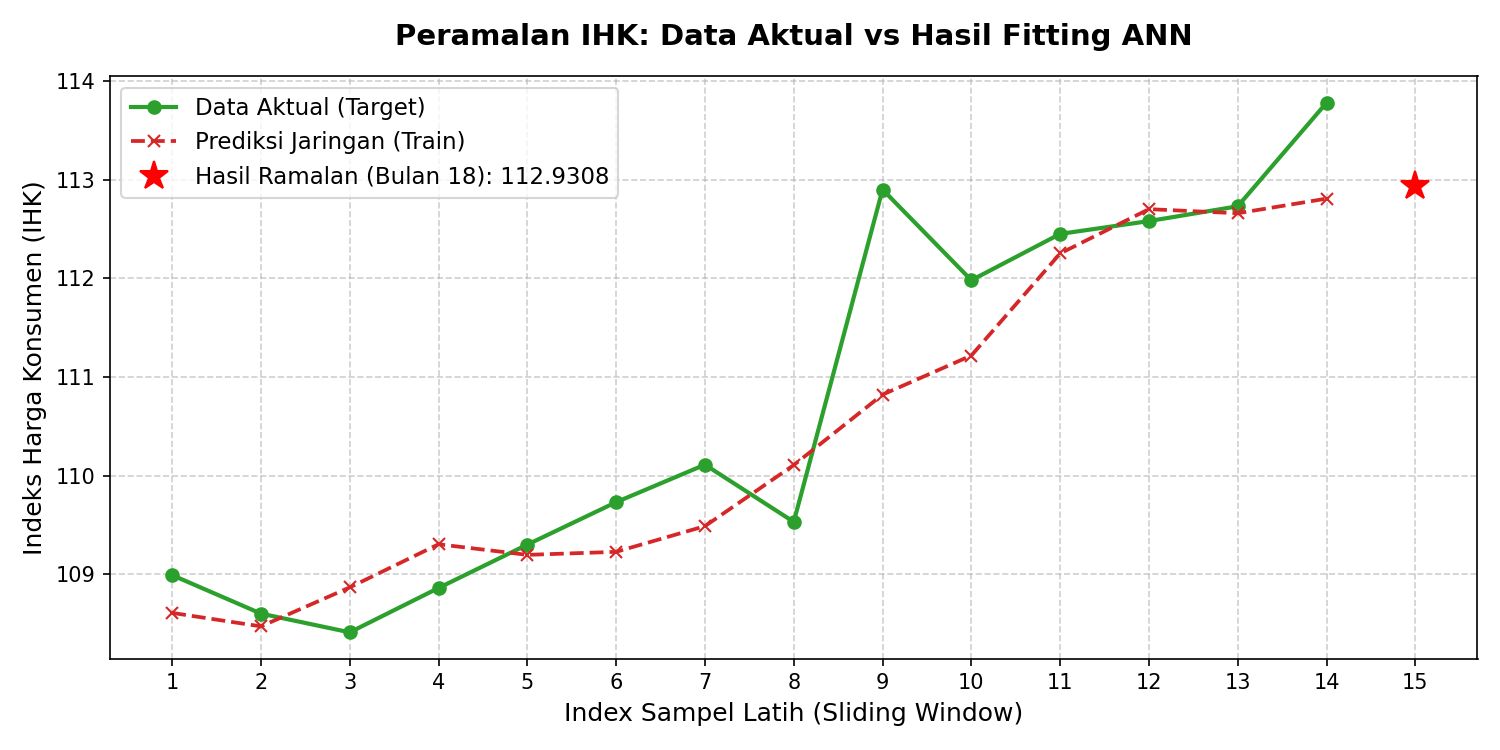
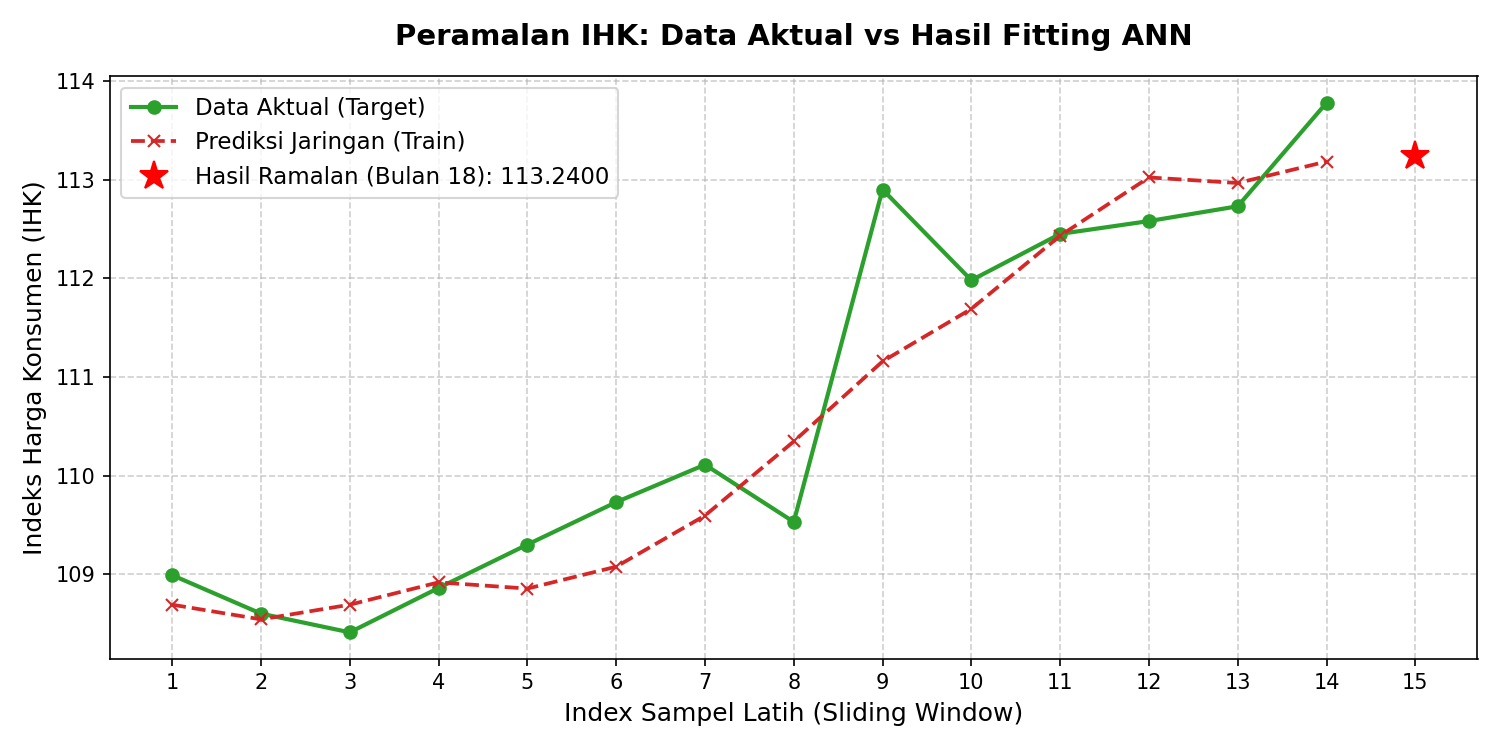
update result.md with tables

diff --git a/generate_results.py b/generate_results.py
@@ -86,6 +86,21 @@ async def main():
             plt.savefig("ihk_forecast_chart.png", dpi=150)
             plt.close()
             
+            # Generate data table
+            months_labels = [
+                "Jan 2025", "Feb 2025", "Mar 2025", "Apr 2025", "Mei 2025", "Jun 2025",
+                "Jul 2025", "Ags 2025", "Sep 2025", "Okt 2025", "Nov 2025", "Des 2025",
+                "Jan 2026", "Feb 2026", "Mar 2026", "Apr 2026", "Mei 2026"
+            ]
+            inf_series = inf_data["historical_series"]
+            ihk_series = ihk_data["historical_series"]
+            
+            table_rows = ""
+            for i in range(17):
+                status = "Historis (YoY)" if i < 12 else "Historis (Berjalan)"
+                table_rows += f"| {i+1} | {months_labels[i]} | `{inf_series[i]:.4f}%` | `{ihk_series[i]:.4f}` | {status} |\n"
+            table_rows += f"| 18 | **Jun 2026** | **`{inf_forecast:.4f}%`** | **`{ihk_forecast:.4f}`** | **Hasil Ramalan (ANN)** |\n"
+
             # Write result.md
             print("Menulis dokumen hasil ke result.md...")
             md_content = f"""# Hasil Pelatihan dan Peramalan Artificial Neural Network (ANN)
@@ -103,7 +118,17 @@ Berikut adalah ringkasan hasil pengujian model Jaringan Saraf Tiruan (ANN) yang 
 
 ---
 
-## 2. Grafik Hasil Pelatihan (Loss Function)
+## 2. Tabel Data Input Historis & Hasil Peramalan
+
+Tabel di bawah ini menampilkan 17 data masuk (input historis) yang digunakan untuk melatih model ANN, diikuti oleh hasil peramalan untuk Bulan ke-18 (Juni 2026):
+
+| Bulan Ke- | Periode | Data Masuk: Inflasi | Data Masuk: IHK | Status Data |
+| :---: | :---: | :---: | :---: | :--- |
+{table_rows}
+
+---
+
+## 3. Grafik Hasil Pelatihan (Loss Function)
 
 Grafik di bawah menunjukkan kurva penurunan tingkat error (**Mean Squared Error / MSE**) model Inflasi dan IHK selama 150 epoch pelatihan. Loss yang mengecil mendekati nol menandakan model berhasil belajar secara optimal.
 
@@ -111,7 +136,7 @@ Grafik di bawah menunjukkan kurva penurunan tingkat error (**Mean Squared Error 
 
 ---
 
-## 3. Perbandingan Data Aktual vs Prediksi Model
+## 4. Perbandingan Data Aktual vs Prediksi Model
 
 Grafik di bawah ini membandingkan data aktual historis dengan hasil fitting (prediksi) model ANN saat fase latihan, serta menampilkan proyeksi nilai hasil ramalan untuk bulan ke-18.
 
@@ -123,7 +148,7 @@ Grafik di bawah ini membandingkan data aktual historis dengan hasil fitting (pre
 
 ---
 
-## 4. Hasil Peramalan Kelompok Komoditas Utama
+## 5. Hasil Peramalan Kelompok Komoditas Utama
 
 Berikut adalah estimasi nilai inflasi untuk 11 kelompok komoditas utama di **{res['kota']}** pada bulan ke-18:
 

diff --git a/result.md b/result.md
@@ -8,12 +8,40 @@ Berikut adalah ringkasan hasil pengujian model Jaringan Saraf Tiruan (ANN) yang 
 
 | Variabel | Nilai Ramalan | Nilai Terakhir (Mei 2026) | Trend / Keterangan |
 | :--- | :---: | :---: | :--- |
-| **Inflasi** | `0.3758%` | `0.9300%` | Turun |
-| **IHK** | `112.9308` | `113.7800` | Turun |
+| **Inflasi** | `0.1386%` | `0.9300%` | Turun |
+| **IHK** | `113.2400` | `113.7800` | Turun |
 
 ---
 
-## 2. Grafik Hasil Pelatihan (Loss Function)
+## 2. Tabel Data Input Historis & Hasil Peramalan
+
+Tabel di bawah ini menampilkan 17 data masuk (input historis) yang digunakan untuk melatih model ANN, diikuti oleh hasil peramalan untuk Bulan ke-18 (Juni 2026):
+
+| Bulan Ke- | Periode | Data Masuk: Inflasi | Data Masuk: IHK | Status Data |
+| :---: | :---: | :---: | :---: | :--- |
+| 1 | Jan 2025 | `-0.4700%` | `105.9100` | Historis (YoY) |
+| 2 | Feb 2025 | `-0.4900%` | `105.3900` | Historis (YoY) |
+| 3 | Mar 2025 | `1.5500%` | `107.0200` | Historis (YoY) |
+| 4 | Apr 2025 | `1.8400%` | `108.9900` | Historis (YoY) |
+| 5 | Mei 2025 | `-0.3600%` | `108.6000` | Historis (YoY) |
+| 6 | Jun 2025 | `-0.1700%` | `108.4100` | Historis (YoY) |
+| 7 | Jul 2025 | `0.4200%` | `108.8600` | Historis (YoY) |
+| 8 | Ags 2025 | `0.4000%` | `109.3000` | Historis (YoY) |
+| 9 | Sep 2025 | `0.3900%` | `109.7300` | Historis (YoY) |
+| 10 | Okt 2025 | `0.3500%` | `110.1100` | Historis (YoY) |
+| 11 | Nov 2025 | `-0.5300%` | `109.5300` | Historis (YoY) |
+| 12 | Des 2025 | `3.0800%` | `112.9000` | Historis (YoY) |
+| 13 | Jan 2026 | `-0.8100%` | `111.9800` | Historis (Berjalan) |
+| 14 | Feb 2026 | `0.4200%` | `112.4500` | Historis (Berjalan) |
+| 15 | Mar 2026 | `0.1200%` | `112.5800` | Historis (Berjalan) |
+| 16 | Apr 2026 | `0.1300%` | `112.7300` | Historis (Berjalan) |
+| 17 | Mei 2026 | `0.9300%` | `113.7800` | Historis (Berjalan) |
+| 18 | **Jun 2026** | **`0.1386%`** | **`113.2400`** | **Hasil Ramalan (ANN)** |
+
+
+---
+
+## 3. Grafik Hasil Pelatihan (Loss Function)
 
 Grafik di bawah menunjukkan kurva penurunan tingkat error (**Mean Squared Error / MSE**) model Inflasi dan IHK selama 150 epoch pelatihan. Loss yang mengecil mendekati nol menandakan model berhasil belajar secara optimal.
 
@@ -21,7 +49,7 @@ Grafik di bawah menunjukkan kurva penurunan tingkat error (**Mean Squared Error 
 
 ---
 
-## 3. Perbandingan Data Aktual vs Prediksi Model
+## 4. Perbandingan Data Aktual vs Prediksi Model
 
 Grafik di bawah ini membandingkan data aktual historis dengan hasil fitting (prediksi) model ANN saat fase latihan, serta menampilkan proyeksi nilai hasil ramalan untuk bulan ke-18.
 
@@ -33,20 +61,20 @@ Grafik di bawah ini membandingkan data aktual historis dengan hasil fitting (pre
 
 ---
 
-## 4. Hasil Peramalan Kelompok Komoditas Utama
+## 5. Hasil Peramalan Kelompok Komoditas Utama
 
 Berikut adalah estimasi nilai inflasi untuk 11 kelompok komoditas utama di **KOTA BANDA ACEH** pada bulan ke-18:
 
 | Kelompok Komoditas | Nilai Ramalan (%) | Final Training Loss (MSE) |
 | :--- | :---: | :---: |
-| Makanan, Minuman dan Tembakau | `-0.2326%` | `0.007709` |
-| Pakaian dan Alas Kaki | `0.8527%` | `0.040137` |
-| Perumahan, Air, Listrik dan Bahan Bakar Rumah Tangga | `0.1455%` | `0.012244` |
-| Perlengkapan, Peralatan dan Pemeliharaan Rutin Rumah Tangga | `-0.5175%` | `0.030568` |
-| Kesehatan | `0.6770%` | `0.028008` |
-| Informasi, Komunikasi dan Jasa Keuangan | `3.0118%` | `0.019638` |
-| Transportasi | `0.2732%` | `0.016045` |
-| Rekreasi, Olahraga dan Budaya | `0.1869%` | `0.068250` |
-| Pendidikan | `-0.1990%` | `0.065756` |
-| Penyediaan Makanan dan Minuman / Restoran | `0.5925%` | `0.045602` |
-| Perawatan Pribadi dan Jasa Lainnya | `4.3244%` | `0.031992` |
+| Makanan, Minuman dan Tembakau | `-0.1029%` | `0.010636` |
+| Pakaian dan Alas Kaki | `-0.0585%` | `0.029581` |
+| Perumahan, Air, Listrik dan Bahan Bakar Rumah Tangga | `0.0963%` | `0.021069` |
+| Perlengkapan, Peralatan dan Pemeliharaan Rutin Rumah Tangga | `0.0568%` | `0.054866` |
+| Kesehatan | `0.5475%` | `0.010730` |
+| Informasi, Komunikasi dan Jasa Keuangan | `3.2664%` | `0.006686` |
+| Transportasi | `0.2078%` | `0.029737` |
+| Rekreasi, Olahraga dan Budaya | `0.1754%` | `0.065199` |
+| Pendidikan | `-0.1953%` | `0.064247` |
+| Penyediaan Makanan dan Minuman / Restoran | `0.7307%` | `0.055138` |
+| Perawatan Pribadi dan Jasa Lainnya | `1.7500%` | `0.024735` |
